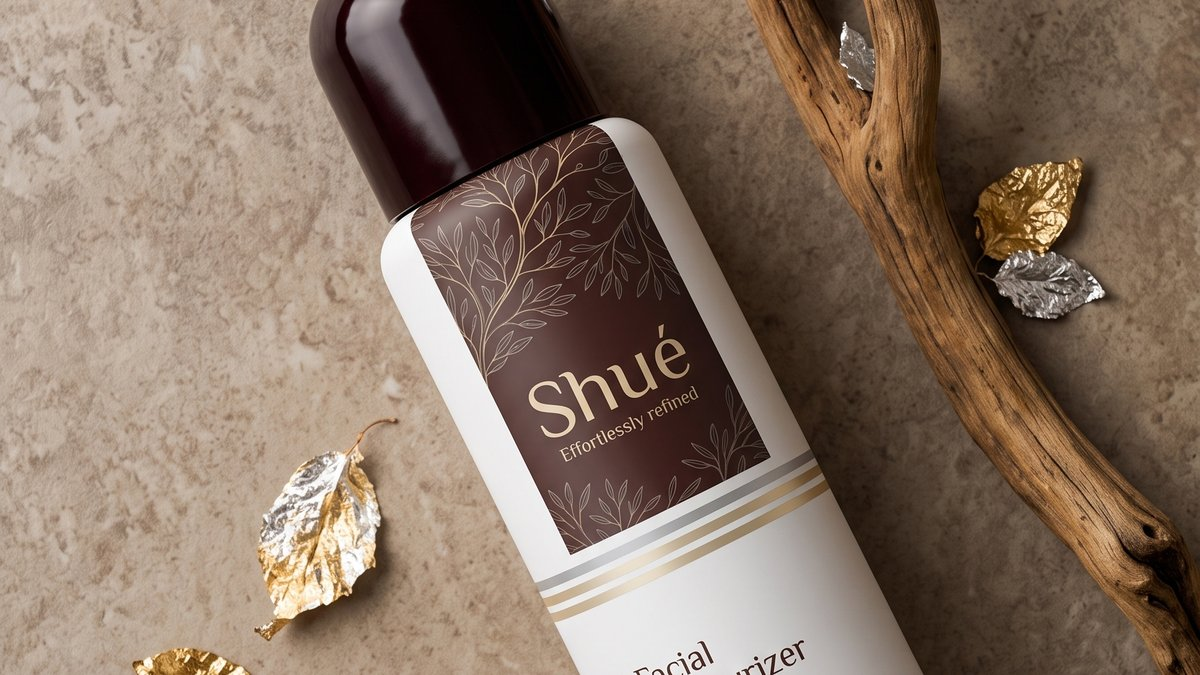
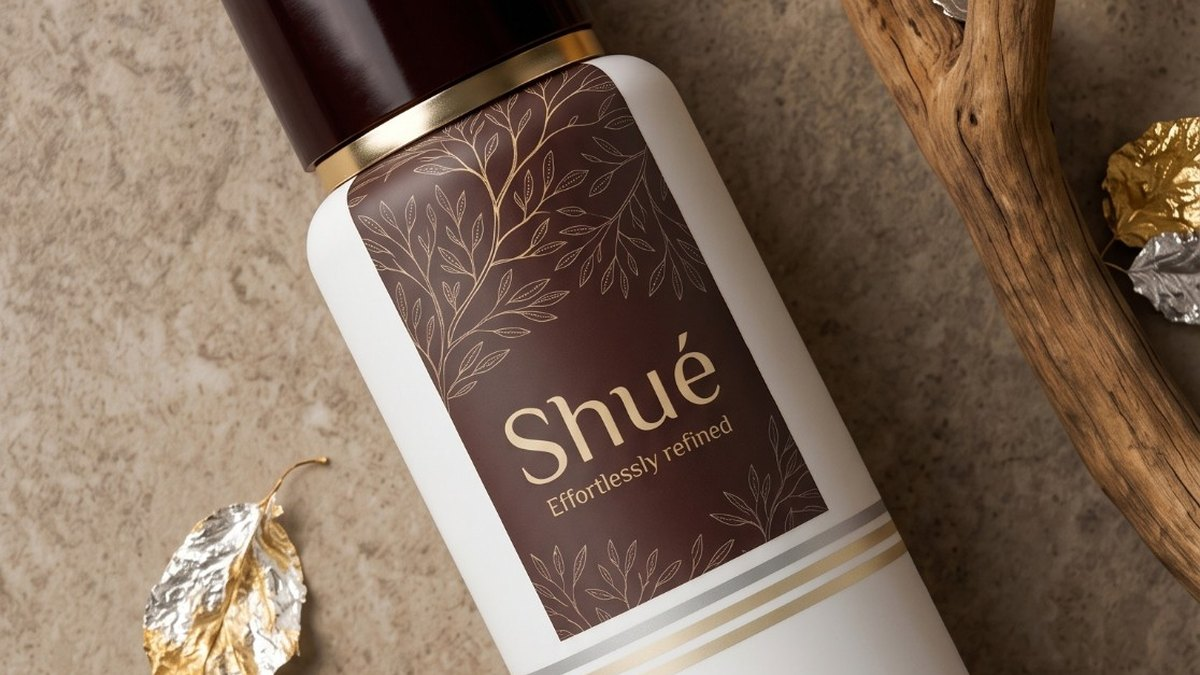
New cover images on the two Creative Work cards
The supplied stills belong on the homepage cards, not the case-study players, so
the video posters go back to the frames they had before.

Both stills are portrait and the cards are 16:9, so the framing was chosen
rather than defaulted: the skincare crop sits low enough for the Shue wordmark
to read, and the backpack crop sits low enough to keep the bag whole, which
costs the peak of Fuji but keeps the product intact.

Alt text updated to describe what is actually in each frame now.

diff --git a/src/data/projects.js b/src/data/projects.js
@@ -17,7 +17,7 @@ export const projects = [
     role: 'Product concept · Creative direction · Prompt engineering · Edit',
     glimpse: {
       src: '/images/glimpse-skincare.jpg',
-      alt: 'Close-up of the Shué moisturiser cap against a driftwood branch',
+      alt: 'The Shué moisturiser on stone, driftwood and gold leaf around it',
     },
     hero: {
       src: '/images/case-skincare-hero.jpg',
@@ -139,7 +139,7 @@ export const projects = [
     role: 'Product concept · Creative direction · Prompt engineering · Edit',
     glimpse: {
       src: '/images/glimpse-backpack.jpg',
-      alt: 'Close-up of the backpack worn on the model’s back',
+      alt: 'The backpack worn under the blossom, Mount Fuji and the Shinkansen behind',
     },
     hero: {
       src: '/images/case-backpack-hero.jpg',
